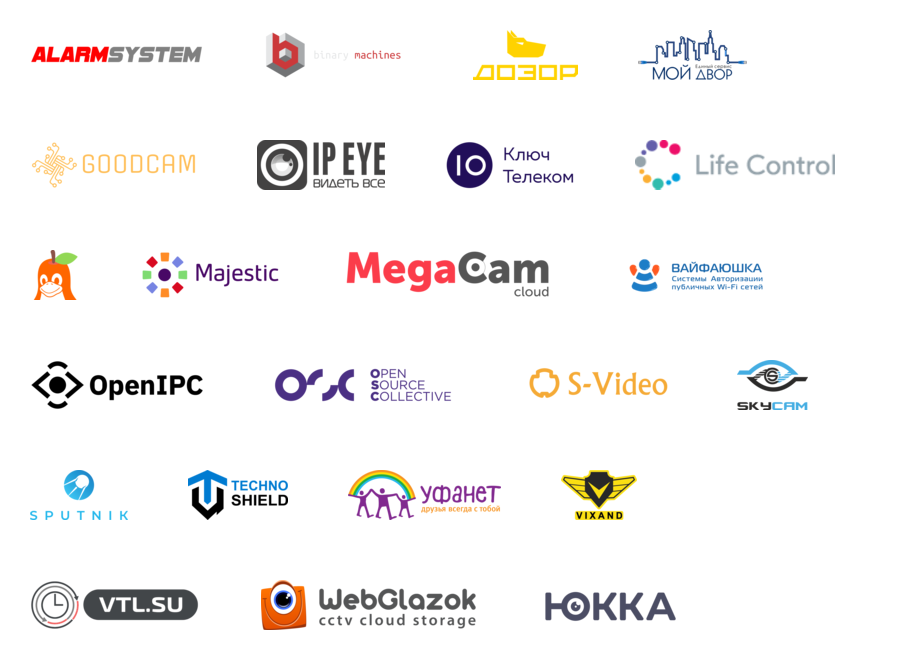
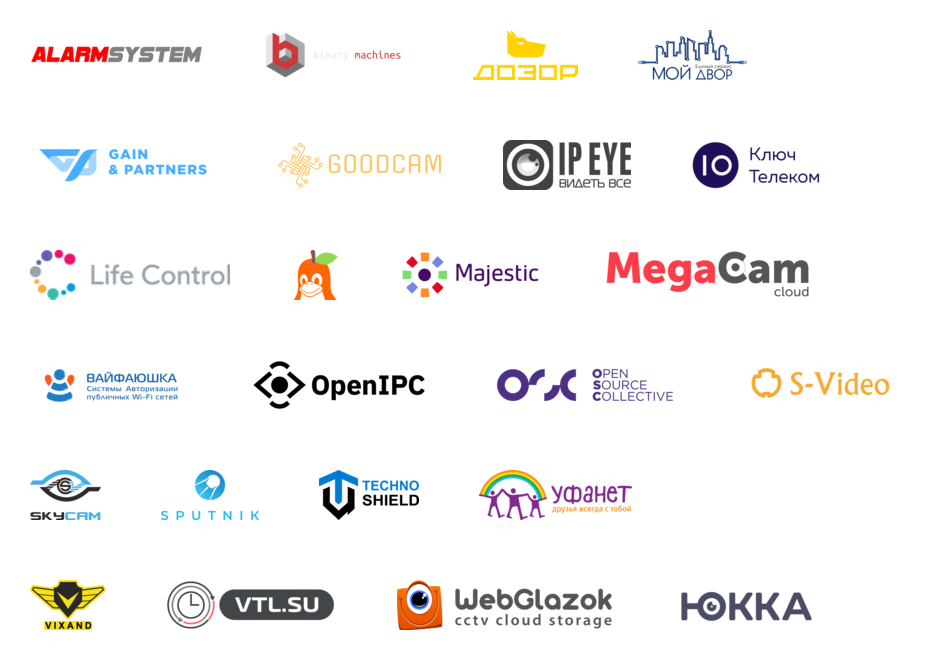
Update page

diff --git a/docs/index.md b/docs/index.md
@@ -69,9 +69,9 @@ We would be grateful for the feedback and suggestions.
 
 |   |   |   |   |
 |:-:|:-:|:-:|:-:|
-| [![OSC logo](https://openipc.github.io/images/partner_osc_mini.png "OSC logo")](https://www.oscollective.org) | [![MAJESTIC logo](https://openipc.github.io/images/partner_majestic_mini.png "MAJESTIC logo")](https://majestic.cam) | [![SKYCAM logo](https://openipc.github.io/images/partner_skycam_mini.png "SKYCAM logo")](https://skycam.cam) | [![BINARY_MACHINES logo](https://openipc.github.io/images/partner_binary-machines_mini.png "BINARY_MACHINES logo")](http://bmachines.ru) |
+| [![OSC logo](https://openipc.github.io/images/partner_osc_mini.png "OSC logo")](https://www.oscollective.org) | [![MAJESTIC logo](https://openipc.github.io/images/partner_majestic_mini.png "MAJESTIC logo")](https://majestic.cam) | [![SKYCAM logo](https://openipc.github.io/images/partner_skycam_mini.png "SKYCAM logo")](https://skycam.cam) | [![GAINS logo](https://openipc.github.io/images/partner_gain_mini.png "GAINS logo")](http://gains.company/) |
 | [![DVOR24 logo](https://openipc.github.io/images/partner_dvor24_mini.png "DVOR24 logo")](https://dvor24.ru) | [![GOODCAM logo](https://openipc.github.io/images/partner_goodcam_mini.png "GOODCAM logo")](https://www.goodcam.io) | [![IPEYE logo](https://openipc.github.io/images/partner_ipeye_mini.png "IPEYE logo")](https://ipeye.ru) | [![LIFECONTROL logo](https://openipc.github.io/images/partner_lifecontrol_mini.png "LIFECONTROL logo")](https://lifecontrol.ru/) |
 | [![MEGACAM logo](https://openipc.github.io/images/partner_megacam_mini.png "MEGACAM logo")](http://megacam.kz) | [![MYWIFI-CC logo](https://openipc.github.io/images/partner_mywifi-cc_mini.png "MYWIFI-CC logo")](https://xn--80aaaf0bh2e7a5c.xn--p1ai/) | [![KEYTELECOM logo](https://openipc.github.io/images/partner_keytelecom_mini.png "KEYTELECOM logo")](https://keytele.com) | [![SPUTNIK logo](https://openipc.github.io/images/partner_sputnik_mini.png "SPUTNIK logo")](https://sputnik.systems) |
 | [![TECHNO_SHIELD logo](https://openipc.github.io/images/partner_techno-shield_mini.png "TECHNO_SCHIELD logo")](https://msvoko.ru) | [![VIXAND logo](https://openipc.github.io/images/partner_vixand_mini.png "VIXAND logo")](http://vixand.ru) | [![WEBGLAZOK logo](https://openipc.github.io/images/partner_webglazok_mini.png "WEBGLAZOK logo")](https://webglazok.com) | [![YUCCA logo](https://openipc.github.io/images/partner_yucca_mini.png "YUCCA logo")](https://yucca.app/en) |
 | [![S-VIDEO logo](https://openipc.github.io/images/partner_s-video_mini.png "S-Video logo")](https://www.cctvsp.ru/cctv/openipc) | [![LINUXCHENXING logo](https://openipc.github.io/images/partner_linuxchenxing_mini.png "LINUXCHENXING logo")](https://linux-chenxing.org)  | [![UFANET logo](https://openipc.github.io/images/partner_ufanet_mini.png "UFANET logo")](https://www.ufanet.ru/) | [![VTL logo](https://openipc.github.io/images/partner_vtl_mini.png "VTL logo")](https://vtl.su/#rec35109538) |
-| [![DOZOR logo](https://openipc.github.io/images/partner_dozor_mini.png "DOZOR logo")](https://dozor-smart.ru) |  [![ALARMSYSTEM logo](https://openipc.github.io/images/partner_alarmsystem_mini.png "ALARMSYSTEM logo")](https://alarmsystem-cctv.ru/product-category/cctv-products/cctv-cameras/ip-cameras-cctv/?swoof=1&product_brands=openipc&really_curr_tax=189-product_cat) | | |
+| [![DOZOR logo](https://openipc.github.io/images/partner_dozor_mini.png "DOZOR logo")](https://dozor-smart.ru) |  [![ALARMSYSTEM logo](https://openipc.github.io/images/partner_alarmsystem_mini.png "ALARMSYSTEM logo")](https://alarmsystem-cctv.ru/product-category/cctv-products/cctv-cameras/ip-cameras-cctv/?swoof=1&product_brands=openipc&really_curr_tax=189-product_cat) | [![BINARY_MACHINES logo](https://openipc.github.io/images/partner_binary-machines_mini.png "BINARY_MACHINES logo")](http://bmachines.ru) | |
